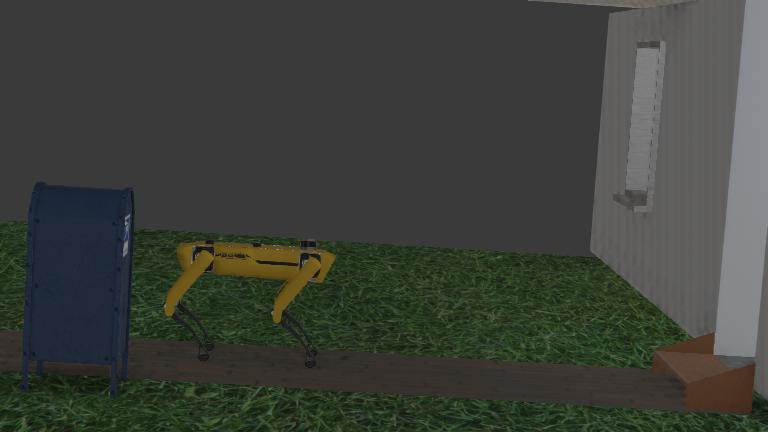
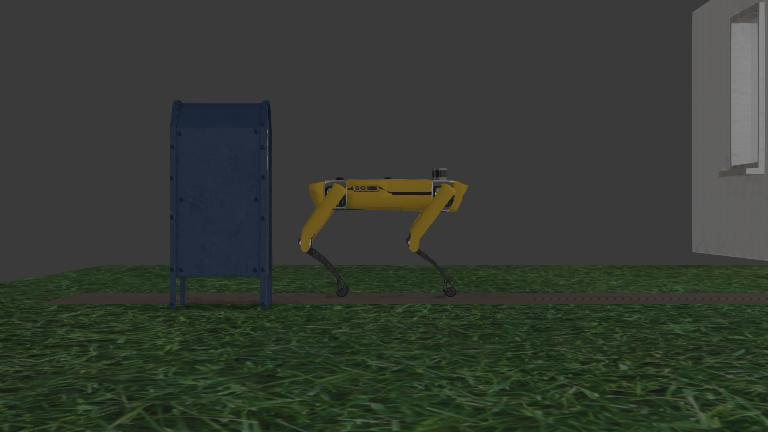
Xbox control for walking and turning

Changed region(s): [[0.0, 0.0, 1.0, 1.0]]

diff --git a/home_environment/controllers/xbox_controller/XboxController.py b/home_environment/controllers/xbox_controller/XboxController.py
@@ -1,4 +1,167 @@
 
+# import os
+
+# if os.name == "nt":
+# 	import ctypes
+
+# 	class _XinputGamepad(ctypes.Structure):
+# 		_fields_ = [('Buttons', ctypes.c_ushort),
+# 			('LeftTrigger', ctypes.c_ubyte),
+# 			('RightTrigger', ctypes.c_ubyte),
+# 			('LeftX', ctypes.c_short),
+# 			('LeftY', ctypes.c_short),
+# 			('RightX', ctypes.c_short),
+# 			('RightY', ctypes.c_short)]
+
+# 	class _XinputState(ctypes.Structure):
+# 			_fields_ = [('Packet', ctypes.c_ulong), ('Gamepad', _XinputGamepad)]
+# else:
+# 	import struct
+
+# class XboxController:
+# 	ButtonNames = ('A', 'B', 'X', 'Y', 'LB', 'RB', 'Start', 'Select')
+
+# 	def __init__(self, userIndex = 0):
+# 		self.userIndex = userIndex
+# 		self._clearState()
+# 		self._onButton = [lambda: None] * 2 * len(XboxController.ButtonNames)
+
+# 	def onButtonReleased(self, button, function):
+# 		self._onButton[2 * XboxController.ButtonNames.index(button)] = function
+
+# 	def onButtonPressed(self, button, function):
+# 		self._onButton[2 * XboxController.ButtonNames.index(button) + 1] = function
+
+# 	def _clearState(self):
+# 		self.Connected = False
+# 		self.LeftX = 0
+# 		self.LeftY = 0
+# 		self.RightX = 0
+# 		self.RightY = 0
+# 		self.LeftTrigger = 0
+# 		self.RightTrigger = 0
+# 		self.DpadX = 0
+# 		self.DpadY = 0
+
+# 		for button in XboxController.ButtonNames:
+# 			self.__setattr__(button, int(0))
+		
+# 		self._previousButtons = int(0)
+
+# 	def printState(self):
+# 		print("\nDisconnected" if not self.Connected else (
+# 			f"\nLeftX: {self.LeftX:.3f}\t\tLeftY: {self.LeftY:.3f}"
+# 			f"\nRightX: {self.RightX:.3f}\t\tRightY: {self.RightY:.3f}"
+# 			f"\nLeftTrigger: {self.LeftTrigger:.3f}\tRightTrigger: {self.RightTrigger:.3f}"
+# 			f"\nDpadX: {self.DpadX}\t\tDpadY: {self.DpadY}"
+# 			f"\nA: {self.A} \t\t\tB: {self.B}"
+# 			f"\nX: {self.X} \t\t\tY: {self.Y}"
+# 			f"\nLB: {self.LB}\t\t\tRB: {self.RB}"
+# 			f"\nStart: {self.Start}\t\tSelect: {self.Select}"))
+
+# 	if os.name == "nt":
+# 		_xInputDll = getattr(ctypes.windll, "XInput1_4.dll")
+
+# 		def __enter__(self):
+# 			return self
+
+# 		def __exit__(self, *args):
+# 			return
+
+# 		def update(self):
+# 			state = _XinputState()
+# 			if XboxController._xInputDll.XInputGetState(ctypes.c_uint32(self.userIndex), ctypes.byref(state)):
+# 				self._clearState()
+# 			else:
+# 				self.Connected = True
+# 				self.LeftX = state.Gamepad.LeftX / 0x8000
+# 				self.LeftY = state.Gamepad.LeftY / 0x8000
+# 				self.RightX = state.Gamepad.RightX / 0x8000
+# 				self.RightY = state.Gamepad.RightY / 0x8000
+# 				self.LeftTrigger = state.Gamepad.LeftTrigger / 0x100
+# 				self.RightTrigger = state.Gamepad.RightTrigger / 0x100
+
+# 				buttons = int(state.Gamepad.Buttons)
+# 				self.DpadX = (0, -1, 1, 0)[buttons >> 2 & 0x03]
+# 				self.DpadY = (0, 1, -1, 0)[buttons & 0x03]
+# 				self.A = buttons >> 12 & 1
+# 				self.B = buttons >> 13 & 1
+# 				self.X = buttons >> 14 & 1
+# 				self.Y = buttons >> 15 & 1
+# 				self.LB = buttons >> 8 & 1
+# 				self.RB = buttons >> 9 & 1
+# 				self.Start = buttons >> 5 & 1
+# 				self.Select = buttons >> 4 & 1
+
+# 				for i, mask in enumerate((0x1000, 0x2000, 0x4000, 0x8000, 0x100, 0x200, 0x20, 0x10)):
+# 					if ~self._previousButtons & buttons & mask:
+# 						self._onButton[2 * i + 1]()
+# 					elif self._previousButtons & ~buttons & mask:
+# 						self._onButton[2 * i]()
+# 				self._previousButtons = buttons
+
+# 	else:
+# 		def __enter__(self):
+# 			self._connect()
+# 			return self
+
+# 		def __exit__(self, *args):
+# 			os.close(self._fid)
+
+# 		def _connect(self):
+# 			try:
+# 				self._fid = os.open(f"/dev/input/js{self.userIndex}", os.O_RDONLY | os.O_NONBLOCK)
+# 			except (FileNotFoundError, PermissionError):
+# 				return
+# 			else:
+# 				self.Connected = True
+
+# 		def update(self):
+# 			while self.Connected:
+# 				try:
+# 					eventValue, eventType, eventIndex = struct.unpack_from("hBB", os.read(self._fid, 8), offset = 4)
+# 				except BlockingIOError:
+# 					return
+# 				except FileNotFoundError:
+# 					self._clearState()
+# 					return
+
+# 				if eventType == 1:
+# 					buttonValue = eventValue & 1
+# 					self.__setattr__(XboxController.ButtonNames[eventIndex], buttonValue)
+# 					self._onButton[2 * eventIndex + buttonValue]()
+# 				elif eventType == 2:
+# 					if eventIndex < 6:
+# 						if eventIndex < 3:
+# 							if eventIndex == 0:
+# 								self.LeftX = eventValue / 0x8000
+# 							elif eventIndex == 1:
+# 								self.LeftY = -eventValue / 0x8000
+# 							else:
+# 								self.LeftTrigger = (eventValue + 0x7FFF) / 0x10000
+# 						elif eventIndex == 3:
+# 							self.RightX = eventValue / 0x8000
+# 						elif eventIndex == 4:
+# 							self.RightY = -eventValue / 0x8000
+# 						else:
+# 							self.RightTrigger = (eventValue + 0x7FFF) / 0x10000
+# 					elif eventIndex == 6:
+# 						self.DpadX = -1 if eventValue < 0 else 1 if eventValue > 0 else 0
+# 					elif eventIndex == 7:
+# 						self.DpadY = 1 if eventValue < 0 else -1 if eventValue > 0 else 0
+# 			else:
+# 				self._connect()
+	
+# 	@staticmethod
+# 	def _deadband(x, db, sat):
+# 		if x < 0: return -XboxController._deadband(-x, db, sat)
+# 		return 0 if x <= db else 1 if x >= sat else (x - db) / (sat - db)
+
+
+
+
+
+
 from threading import Thread
 from inputs import get_gamepad
 from sys import platform

diff --git a/home_environment/controllers/spot_flat_walk/spot_flat_walk.py b/home_environment/controllers/spot_flat_walk/spot_flat_walk.py
@@ -9,11 +9,19 @@ import numpy as np
 from SpotKinematics import SpotModel
 from Bezier import BezierGait
 
+import sys
+sys.path.insert(1, '../../scripts')
+from XboxController import XboxController
+xbox = XboxController()
+
 class Sim:
   def __init__(self):
     # CREATE ROBOT INSTANCE
     self.robot = Supervisor()
     self.spot_node = self.robot.getFromDef("Spot")
+
+    # Initialize tool to get position of robot
+    self.trans_field = self.spot_node.getField("translation")
 
     # get the time step of the current world.
     self.TIME_STEP = int(self.robot.getBasicTimeStep())
@@ -76,13 +84,13 @@ class Sim:
     self.bzg = BezierGait(dt=self.TIME_STEP/1000)
 
     # ------------------ Inputs for Bezier Gait control ----------------
-    self.yaw_d = 0.0
+    self.yaw_d = -1.0
     self.SPEED=2.0
     self.STEP_DIRECTION=1 #fwd:1; left/right:0.1
-    self.TURN=0.5
+    self.TURN=0.0
     self.STEP_LENGTH = 0.024
     self.LATERAL_FRACTION = 0.0
-    self.YAW_RATE = 0.0
+    self.YAW_RATE = 1.0
     self.STEP_VELOCITY = 0.01
     self.CLEARANCE_HEIGHT = 0.024
     self.PENETRATION_DEPTH = 0.003
@@ -176,18 +184,100 @@ class Sim:
 
     self.setMotorPositions(motors_target_pos)
 
+def mapInput(speedInput, turnInput):
+  maxSpeed = 1.9
+  minSpeed = -1.9
+  diffScaleSpeed = maxSpeed - minSpeed
+  maxTurn = 0.6
+  minTurn = -0.6
+  diffScaleTurn = maxTurn - minTurn
+
+  maxInputSpeed = 1.0
+  minInputSpeed = -1.0
+  maxInputTurn = 1.0
+  minInputTurn = -1.0
+  diffInputSpeed = maxInputSpeed - minInputSpeed
+  diffInputTurn = maxInputTurn - minInputTurn
+
+  if abs(speedInput) >= 0.09:
+    mapSpeed = ((speedInput - minInputSpeed)*(diffScaleSpeed/diffInputSpeed)+minSpeed)
+  else:
+    mapSpeed = 0.0
+    
+  if abs(turnInput) >= 0.09:
+    mapTurn = ((-turnInput - minInputTurn)*(diffScaleTurn/diffInputTurn)+minTurn)
+  else:
+    mapTurn = 0.0
+  print(mapSpeed, mapTurn)
+
+  return mapSpeed, mapTurn
+
+def printInput():
+  print(xbox.RightTrigger,xbox.LeftTrigger,xbox.LeftX,xbox.LeftY)
+
 # MAIN METHOD
 def main():
   sim = Sim()
+  
+  #define simulation time variable (seconds)
+  t = 0
+  startTime = t
+  state = 0
 
   # SIM LOOP
   while True:
-    # SET DESIRED POSE
-    pos = np.array([0, 0, 0.1])
-    orn = np.array([0, 0, 0])
+    t+=float(sim.TIME_STEP)*1.0/1000
 
-    # CALL INVERSE CONTROL ON DESIRED POSE
-    sim.inverse_control(pos,orn)
+    now = t - startTime
+    
+    if state == 1:
+      print("State 1")
+      if not xbox.Start:
+        state = 2
+    elif state == 2:
+      print("State 2")
+      if xbox.Start:
+        # self.stand()
+        timeStamp = now
+        state = 3
+    elif state == 3:
+      print("State 3")
+      if not xbox.Start and now >= timeStamp + 1:
+        timeStamp = now
+        state = 4
+    elif state == 4:
+      print("State 4")
+      # stepDuration = 1
+      # self.walk(xbox = xbox, phase = (now - timeStamp) / stepDuration)
+      printInput()
+      # SET DESIRED POSE
+      localPos = np.array([0, 0.0, 0.0])
+      localOrn = np.array([0, 0, 0.0])
+      # print(sim.trans_field.getSFVec3f())
+      globalPos = sim.spot_node.getPosition()
+      globalOrn = sim.spot_node.getOrientation()
+      zAngle = math.atan2(globalOrn[3],globalOrn[0])
+      print(zAngle)
+
+      # CALL INVERSE CONTROL ON DESIRED POSE
+      sim.inverse_control(localPos,localOrn)
+      # sim.SPEED = 0.1
+      # sim.TURN = 0.5
+      sim.SPEED, sim.TURN = mapInput(xbox.LeftY, xbox.LeftX)
+      
+      
+      if xbox.Start:
+        state = 0
+    else:
+      print("\nPress START to continue.")
+      # self.home()
+      state = 1
+
+    if xbox.Select:
+      print("\nQuadruped Test Complete (Terminated by Xbox Controller).\n")
+      break
+      
+    
 
     # STEP THE SIMULATION FRWD
     sim.step()

diff --git a/home_environment/controllers/xbox_controller/xbox_controller.py b/home_environment/controllers/xbox_controller/xbox_controller.py
@@ -6,7 +6,7 @@ from controller import Robot
 import sys
 
 # tell python to look for libraries in our python libraries folder
-# sys.path.insert(1, '../../../scripts')
+sys.path.insert(1, '../../scripts')
 from XboxController import XboxController
 xbox = XboxController()
 

diff --git a/home_environment/scripts/XboxController.py b/home_environment/scripts/XboxController.py
@@ -1,4 +1,3 @@
-
 from threading import Thread
 from inputs import get_gamepad
 from sys import platform
